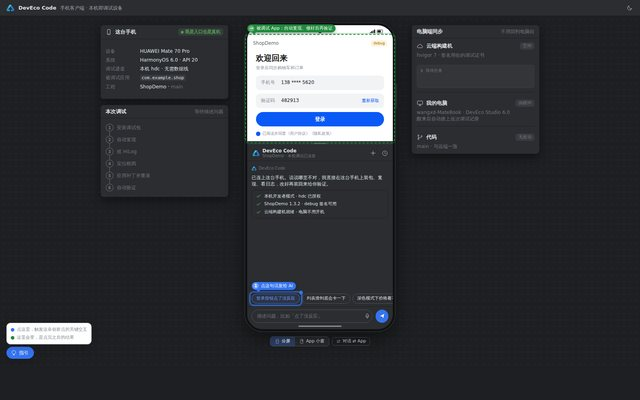
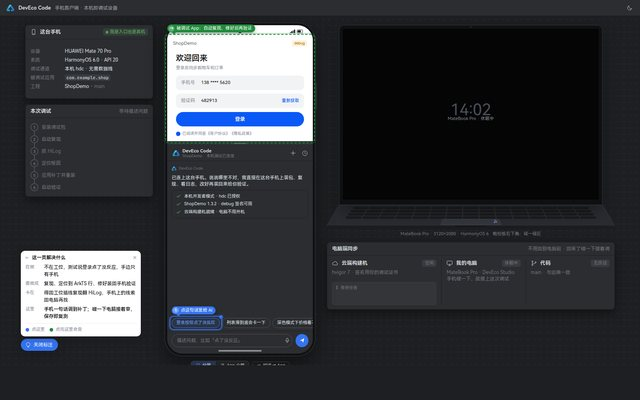
15 碰一碰接续、25 手机调一半碰电脑接着调：缩略图与记录

diff --git a/demos/10-visual-profiling/index.html b/demos/10-visual-profiling/index.html
@@ -298,6 +298,14 @@
 </style>
 </head>
 <body>
+<svg width="0" height="0" style="position:absolute" aria-hidden="true"><defs>
+  <symbol id="i-laptop" viewBox="0 0 16 16"><rect x="3" y="3.5" width="10" height="7" rx="1" stroke="currentColor" fill="none"/><path d="M1.5 12.5h13" stroke="currentColor" stroke-linecap="round"/></symbol>
+  <symbol id="i-nfc" viewBox="0 0 16 16"><rect x="2.5" y="4" width="5.5" height="9.5" rx="1.2" stroke="currentColor" fill="none"/><path d="M10.2 6.3a2.8 2.8 0 0 1 0 4.4M12.2 4.6a5.3 5.3 0 0 1 0 7.8" stroke="currentColor" stroke-linecap="round" fill="none"/></symbol>
+  <symbol id="i-wmin" viewBox="0 0 16 16"><path d="M4 8.5h8" stroke="currentColor" stroke-width="1.3" stroke-linecap="round"/></symbol>
+  <symbol id="i-wmax" viewBox="0 0 16 16"><rect x="4" y="4" width="8" height="8" rx="1.5" stroke="currentColor" stroke-width="1.2" fill="none"/></symbol>
+  <symbol id="i-wclose" viewBox="0 0 16 16"><path d="M4.5 4.5l7 7M11.5 4.5l-7 7" stroke="currentColor" stroke-width="1.3" stroke-linecap="round"/></symbol>
+  <symbol id="i-bag" viewBox="0 0 16 16"><path d="M3 5.5h10l-.8 8H3.8z" fill="currentColor"/><path d="M5.5 5.5V4.5a2.5 2.5 0 0 1 5 0v1" stroke="currentColor" stroke-width="1.4" fill="none"/></symbol>
+</defs></svg>
 <div class="ide" id="ide" data-ide-theme="dark" data-left="agent" data-right="project" data-bottom="none" role="application" aria-label="DevEco Studio">
   <div class="body">
     <div class="tw tw-left">
@@ -332,13 +340,13 @@
       <div class="tabs" id="tabs"><span class="grow"></span><span class="tab-tools"><span class="toggle on" title="图上选中什么，代码就跳到哪一行"><svg class="i"><use href="#i-link"/></svg>图 ↔ 代码联动</span><button class="abtn" title="Editor Options"><svg class="i"><use href="#i-moreV"/></svg></button></span></div>
       <div class="dm-split v prof-split">
         <div class="ed-top">
-          <div class="code-wrap"><div class="code" id="code" data-for-file="ListPage.ets"></div><div class="code" id="code-il" data-for-file="ImageLoader.ets" hidden></div><div class="code" id="code-tw" data-for-file="ThumbWorker.ets" hidden></div></div>
+          <div class="code-wrap"><div class="code" id="code" data-for-file="ListPage.ets"></div><div class="code" id="code-il" data-for-file="ImageLoader.ets" hidden></div><div class="code" id="code-tw" data-for-file="ThumbWorker.ets" hidden></div><div class="code" id="code-ic" data-for-file="ItemCard.ets" hidden></div></div>
           <div class="crumb-row"><div class="breadcrumbs" id="crumbs"></div><span class="dm-pill err loc-pill" id="loc-pill"><svg><use href="#i-locate"/></svg><span id="loc-text">ListPage.ets:28 · 38 ms / 帧</span></span></div>
         </div>
         <div class="prof">
           <div class="dm-pane-hd"><b>Profiler</b>
-            <span class="dm-seg" id="seg"><button class="on" data-v="cpu">CPU</button><button data-v="mem">内存</button><button data-v="pow">电量</button><button data-v="conc">并发</button></span>
-            <span class="dm-pill muted" style="margin-left:6px"><svg><use href="#i-phone"/></svg>Mate 70 Pro · 记录 #12</span>
+            <span class="dm-seg" id="seg"><button class="on" data-v="cpu">CPU</button><button data-v="mem">内存</button><button data-v="pow">电量</button><button data-v="conc">并发</button><button data-v="multi">多设备</button></span>
+            <span class="dm-pill muted" id="prof-dev" style="margin-left:6px"><svg><use href="#i-phone"/></svg><span>Mate 70 Pro · 记录 #12</span></span>
             <span class="grow"></span>
             <span class="dm-pill ok" id="re-state"><svg><use href="#i-sync"/></svg>复测就绪 · 会用同一条记录</span>
           </div>
@@ -378,6 +386,23 @@
                 <span class="dm-pill ok" id="cc-okpill" hidden><svg><use href="#i-checkS"/></svg>这一段正常</span>
               </div>
             </div>
+            <!-- 多设备：一次操作（进入 ListPage 并滑动）在本机原生窗口、Mate 70 Pro、MatePad 上同时采集，按输入事件对齐 -->
+            <div class="prof-md" id="mdv" hidden>
+              <div class="md-top">
+                <span class="md-op"><svg class="i"><use href="#i-hand"/></svg>进入 ListPage → 滑 3 屏</span>
+                <span class="md-note" id="md-note">在本机窗口滑一次，其余设备同步回放</span>
+                <span class="cc-issues" id="md-issues" hidden></span>
+                <span class="grow"></span>
+                <button class="btn primary sm" id="md-run"><svg class="i"><use href="#i-play"/></svg><span>同时采集</span></button>
+              </div>
+              <div class="md-tl" id="md-tl"></div>
+              <div class="cc-verdict" id="md-verdict">
+                <svg class="i ico" id="md-ico"><use href="#i-info"/></svg>
+                <div class="vt"><div class="v1" id="md-v1">三台还没采</div><div class="v2" id="md-v2">采完点任意一帧，落到代码行</div></div>
+                <button class="btn primary sm" id="md-act" hidden></button>
+                <span class="dm-pill ok" id="md-okpill" hidden><svg><use href="#i-checkS"/></svg><span>这一帧正常</span></span>
+              </div>
+            </div>
           </div>
         </div>
       </div>
@@ -399,6 +424,24 @@
     <div class="th"><svg class="ok"><use href="#i-checkS"/></svg><span>已发送到调优</span><span class="grow"></span><button class="abtn" id="cc-toast-x" title="Close"><svg class="i"><use href="#i-closeS"/></svg></button></div>
     <div class="tb"><div class="q" id="cc-toast-q"></div><div class="s" id="cc-toast-s"></div></div>
     <div class="tf"><a href="#" id="cc-toast-ok">知道了</a></div>
+  </div>
+
+  <!-- 本机：应用以鸿蒙电脑原生自由窗口运行（可拖动、可缩放），在这里滑一次，其余设备同步回放 -->
+  <div class="hwin" id="hwin" hidden role="dialog" aria-label="好物商城 · 本机窗口">
+    <div class="hw-bar" id="hw-bar"><span class="hw-ico"><svg><use href="#i-bag"/></svg></span><span class="hw-name">好物商城</span><span class="grow"></span>
+      <button class="hw-b" data-hw="min" title="最小化"><svg><use href="#i-wmin"/></svg></button>
+      <button class="hw-b" data-hw="max" title="最大化"><svg><use href="#i-wmax"/></svg></button>
+      <button class="hw-b x" data-hw="close" title="关闭"><svg><use href="#i-wclose"/></svg></button></div>
+    <div class="hw-body" id="hw-body"><div id="hw-lp"></div><i class="hw-hand" id="hw-hand"></i></div>
+    <span class="hw-rz" id="hw-rz" title="拖动改窗口大小"></span>
+    <div class="hw-cap" id="hw-cap"></div>
+  </div>
+
+  <!-- 碰一碰：平板碰电脑，系统弹出连接卡 -->
+  <div class="tapc" id="tapc" hidden role="status">
+    <div class="tapc-hd"><svg class="i"><use href="#i-nfc"/></svg><span>碰一碰</span><span class="grow"></span><button class="abtn" id="tapc-x" title="Close"><svg class="i"><use href="#i-closeS"/></svg></button></div>
+    <div class="tapc-art"><div class="tc-pc"><i class="tc-kb"></i><i class="tc-pad"></i><span class="tc-zone"><svg><use href="#i-nfc"/></svg></span></div><i class="tc-rip"></i><i class="tc-rip r2"></i><div class="tc-ph"></div><span class="tc-ok"><svg><use href="#i-check"/></svg></span></div>
+    <div class="tapc-tx"><b id="tapc-t">正在连接</b><span id="tapc-s"></span><span class="tapc-m" id="tapc-m"></span></div>
   </div>
 </div>
 
@@ -437,7 +480,7 @@
 
   function renderCode(){$('#code').innerHTML=DemoFrame.code('ListPage.ets',{cur:28,hl:[28],marks:{28:'warn'}});}
   /* 编辑器：按文件切标签（没开的先开一个），再跳到行 */
-  var CODE_EL={'ListPage.ets':'#code','ImageLoader.ets':'#code-il','ThumbWorker.ets':'#code-tw'};
+  var CODE_EL={'ListPage.ets':'#code','ImageLoader.ets':'#code-il','ThumbWorker.ets':'#code-tw','ItemCard.ets':'#code-ic'};
   function openFile(name){
     var tb=$('#tabs .tab[data-file="'+name+'"]');
     if(!tb){$('#tabs > .grow').insertAdjacentHTML('beforebegin',DemoFrame.tabs([{file:name}]));tb=$('#tabs .tab[data-file="'+name+'"]');}
@@ -527,16 +570,19 @@
 
   /* ---------- CPU / 内存 / 电量 ---------- */
   function switchView(v){
-    var was=state.view,conc=v==='conc';state.view=v;
+    var was=state.view,conc=v==='conc',mul=v==='multi';state.view=v;
     $$('#seg button').forEach(function(b){b.classList.toggle('on',b.dataset.v===v)});
-    $('.prof-split').classList.toggle('conc',conc);
-    $('.prof-l').hidden=conc;$('.prof-r').hidden=conc;$('#conc').hidden=!conc;
+    $('.prof-split').classList.toggle('conc',conc);$('.prof-split').classList.toggle('multi',mul);
+    $('.prof-l').hidden=conc||mul;$('.prof-r').hidden=conc||mul;$('#conc').hidden=!conc;$('#mdv').hidden=!mul;
+    profDev(mul);
+    if(was==='multi'&&!mul)winAway();
     if(conc){enterConc();return;}
+    if(mul){enterMulti();return;}
     if(state.retested){$('#ch-mem').hidden=v!=='mem';$('#ch-re').hidden=v==='mem';}
     $('#flame-box').hidden=v!=='cpu';$('#mem-note').hidden=v!=='mem';$('#pow-note').hidden=v!=='pow';
     drawAll();
     /* 从并发视图切回来：编辑器回到火焰图选中的那一格 */
-    if(was==='conc'){var cur=$('#flame span.sel')||$('#flame span[data-hot]');if(cur)selectSpan(cur);}
+    if(was==='conc'||was==='multi'){var cur=$('#flame span.sel')||$('#flame span[data-hot]');if(cur)selectSpan(cur);}
   }
   $('#seg').addEventListener('click',function(e){var b=e.target.closest('button');if(b)switchView(b.dataset.v)});
 

diff --git a/demos/03-symptom-tuning/index.html b/demos/03-symptom-tuning/index.html
@@ -162,14 +162,14 @@
   /* 碰一碰：左边「桌面」画手机和电脑，右边连接 / 30 秒回捞 / 识别出的症状 */
   .tap-grid{display:grid;grid-template-columns:380px minmax(0,1fr);gap:10px;flex:none}
   .tap-stage{position:relative;height:340px;border:1px solid var(--ui-border);border-radius:var(--arc);overflow:hidden;overflow:clip;background:radial-gradient(120% 90% at 20% 10%,color-mix(in srgb,var(--ui-accent) 10%,transparent),transparent 65%),var(--ui-editor-bg)}
-  .tap-stage .st-tag{position:absolute;left:10px;top:8px;z-index:3}
-  .deck{position:absolute;left:170px;top:34px;width:250px;height:340px;border:1px solid var(--ui-component-border);border-radius:16px;background:var(--ui-field-bg);box-shadow:var(--ui-shadow)}
-  .deck .keys{position:absolute;left:14px;right:14px;top:14px;height:104px;border-radius:8px;background:repeating-linear-gradient(90deg,var(--ui-tag-bg) 0 15px,transparent 15px 18px);-webkit-mask:repeating-linear-gradient(180deg,#000 0 15px,transparent 15px 18px);mask:repeating-linear-gradient(180deg,#000 0 15px,transparent 15px 18px)}
-  .deck .pad{position:absolute;left:18px;top:138px;width:104px;height:80px;border:1px solid var(--ui-component-border);border-radius:8px;background:color-mix(in srgb,var(--ui-fg) 3%,transparent)}
-  .deck .nfc{position:absolute;left:132px;top:146px;width:30px;height:30px;border-radius:8px;border:1px dashed color-mix(in srgb,var(--ui-accent) 70%,transparent);display:grid;place-items:center;color:var(--ui-accent);cursor:pointer}
+  .tap-stage .st-tag{position:absolute;right:10px;top:8px;z-index:3}
+  .deck{position:absolute;left:-70px;top:34px;width:250px;height:340px;border:1px solid var(--ui-component-border);border-radius:16px;background:var(--ui-field-bg);box-shadow:var(--ui-shadow)}
+  .deck .keys{position:absolute;left:84px;right:14px;top:14px;height:104px;border-radius:8px;background:repeating-linear-gradient(90deg,var(--ui-tag-bg) 0 15px,transparent 15px 18px);-webkit-mask:repeating-linear-gradient(180deg,#000 0 15px,transparent 15px 18px);mask:repeating-linear-gradient(180deg,#000 0 15px,transparent 15px 18px)}
+  .deck .pad{position:absolute;left:100px;top:138px;width:104px;height:80px;border:1px solid var(--ui-component-border);border-radius:8px;background:color-mix(in srgb,var(--ui-fg) 3%,transparent)}
+  .deck .nfc{position:absolute;left:214px;top:146px;width:30px;height:30px;border-radius:8px;border:1px dashed color-mix(in srgb,var(--ui-accent) 70%,transparent);display:grid;place-items:center;color:var(--ui-accent);cursor:pointer}
   .deck .nfc svg.i{width:16px;height:16px}
-  .deck .nfc-l{position:absolute;left:124px;top:180px;width:46px;text-align:center;font-size:11px;color:var(--ui-fg-info)}
-  .deck .name{position:absolute;left:18px;top:236px;font-size:11px;color:var(--ui-fg-info);white-space:nowrap}
+  .deck .nfc-l{position:absolute;left:206px;top:180px;width:46px;text-align:center;font-size:11px;color:var(--ui-fg-info)}
+  .deck .name{position:absolute;left:100px;top:236px;font-size:11px;color:var(--ui-fg-info);white-space:nowrap}
   .ripple{position:absolute;width:30px;height:30px;margin:-15px 0 0 -15px;border-radius:50%;border:2px solid var(--ui-accent);opacity:0;pointer-events:none;z-index:4}
   .tap-stage.hit .ripple{animation:rip 1s ease-out 2}
   .tap-stage.hit .ripple.r2{animation-delay:.25s}
@@ -177,7 +177,7 @@
   [data-ph="idle"] .deck .nfc,.tap-stage[data-ph="idle"] .deck .nfc{animation:nfcp 1.6s ease-in-out infinite}
   @keyframes nfcp{50%{background:color-mix(in srgb,var(--ui-accent) 18%,transparent)}}
   /* 手机：Mate 70 Pro 1260 × 2844，屏 128 × 289 */
-  .tphone{position:absolute;left:18px;top:32px;width:136px;height:297px;padding:4px;border-radius:24px;background:#0f1012;box-shadow:0 10px 26px rgba(0,0,0,.35);z-index:2;transition:transform .55s cubic-bezier(.3,.7,.3,1)}
+  .tphone{position:absolute;left:226px;top:32px;width:136px;height:297px;padding:4px;border-radius:24px;background:#0f1012;box-shadow:0 10px 26px rgba(0,0,0,.35);z-index:2;transition:transform .55s cubic-bezier(.3,.7,.3,1)}
   .tphone .scr{position:relative;width:128px;height:289px;border-radius:20px;overflow:hidden;overflow:clip;background:#fff;color:#1a1a1a;font-family:var(--font-ui);font-size:9px;line-height:1.35}
   .tp-st{height:16px;display:flex;align-items:center;justify-content:space-between;padding:0 12px 0 14px;font-size:8px;font-weight:600;color:#1a1a1a}
   .tp-st .hole{width:8px;height:8px;border-radius:50%;background:#0f1012}
@@ -1338,7 +1338,7 @@
     S.tap='touch';
     var ph=$('#tphone'),z=$('#nfc-zone'),st=$('#tap-stage'),sr=st.getBoundingClientRect(),zr=z.getBoundingClientRect(),pr=ph.getBoundingClientRect();
     var cx=zr.left+zr.width/2,cy=zr.top+zr.height/2;
-    ph.style.transform='translate('+Math.round(cx-(pr.left+pr.width/2))+'px,'+Math.round(cy-(pr.top+70))+'px) rotate(-8deg)';
+    ph.style.transform='translate('+Math.round(cx-(pr.left+pr.width/2))+'px,'+Math.round(cy-(pr.top+70))+'px) rotate(8deg)';
     [$('#rip1'),$('#rip2')].forEach(function(r){r.style.left=Math.round(cx-sr.left)+'px';r.style.top=Math.round(cy-sr.top)+'px'});
     renderTap();updateCap();updateRecPill();
     S.tapT=setTimeout(function(){st.classList.add('hit');
